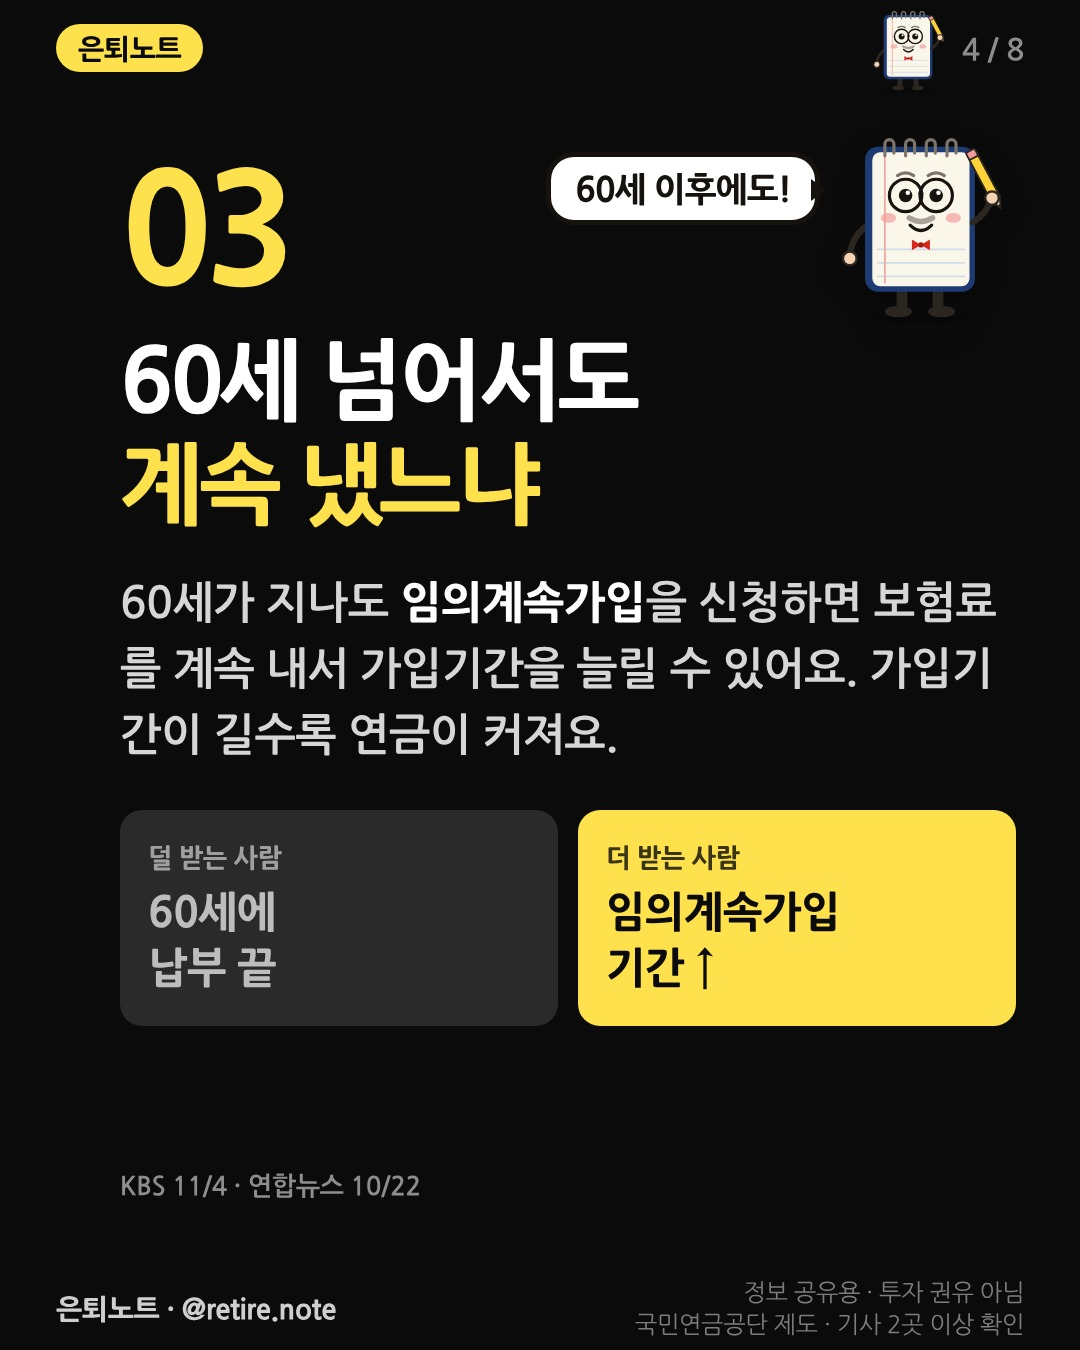
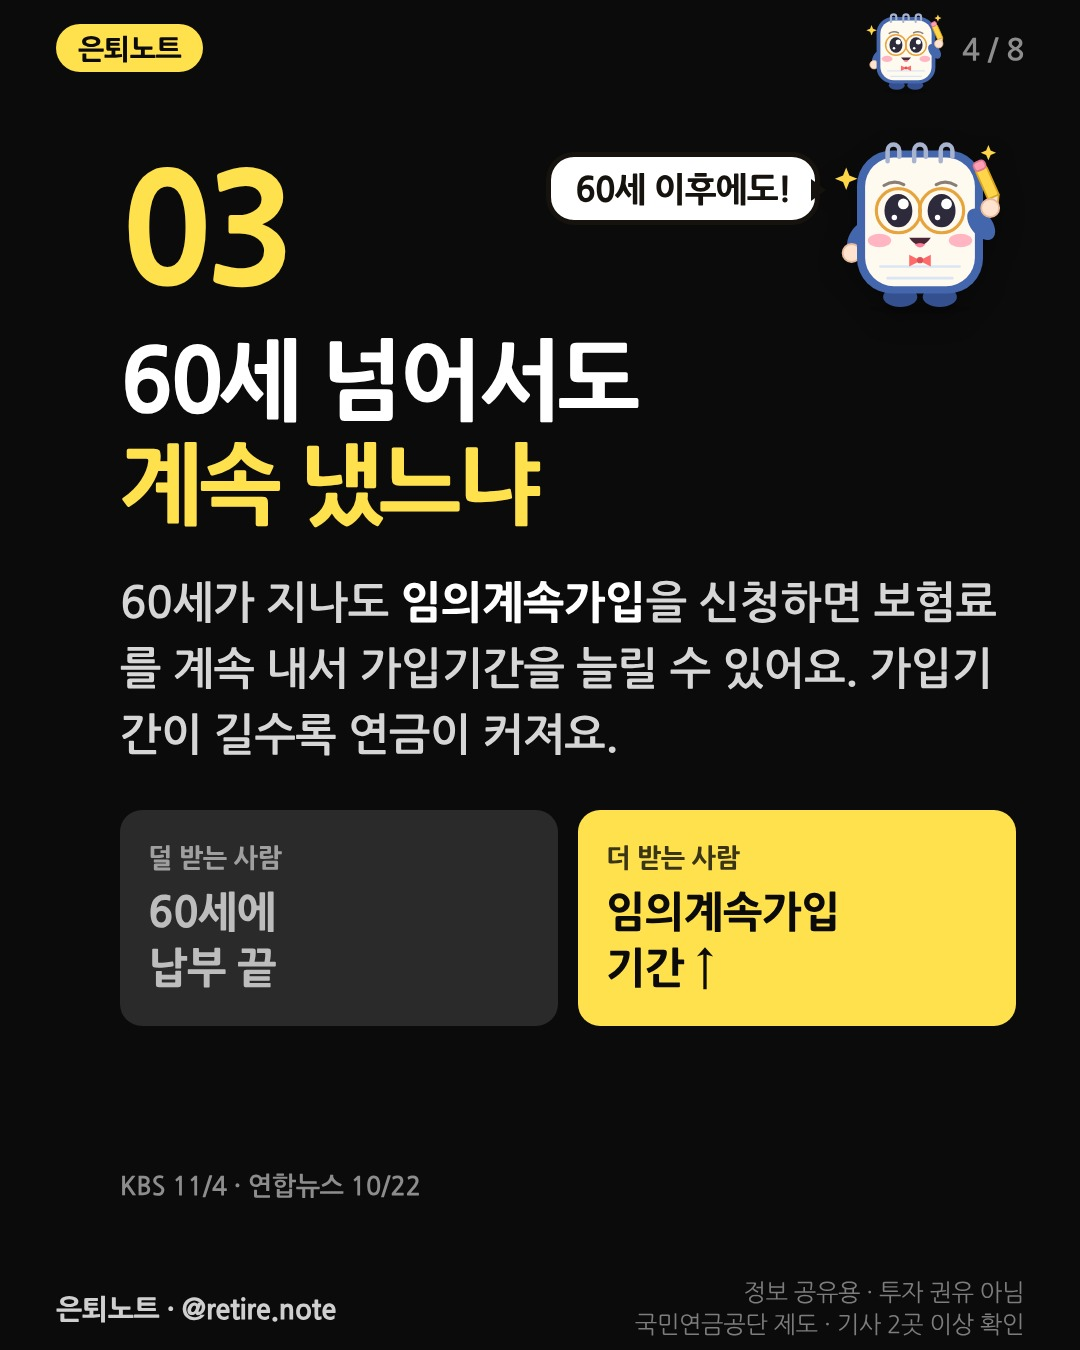
매니악 브리핑 전체 디자인 교체(주황 배경·흰 보드·검정·노랑, 마스코트 마이크 든 주황 고양이 '매니') + 노트쌤 더 귀엽게(v2) + 카드뉴스 3편 다시 렌더
Claude-Session: https://claude.ai/code/session_01BZ9kVCeSsRw6NxVGXqDDmX

Changed region(s): [[0.7639, 0.0, 0.9472, 0.2489]]

diff --git a/reel/cards.html b/reel/cards.html
@@ -6,7 +6,8 @@
   @font-face { font-family:'Sans'; src:url('fonts/nanum-800.woff2'); font-weight:800; }
   @font-face { font-family:'Pen'; src:url('fonts/NanumPenScript-Regular.ttf'); }
   :root { --ink:#16130f; --red:#d7261e; --yel:#ffe14d; --blue:#1f4fa8; --gray:#6b6258; --paper:#fbf6ea; --line:#d9e3ef; --navy:#13213a; }
-  .mb { --ink:#f4f7fb; --red:#ffb340; --yel:#ffb340; --blue:#5ec8ff; --gray:#9fb0c6; --paper:#0f1a2d; --line:#1d2b44; --navy:#070c15; }
+  .mb { --ink:#15171c; --red:#ff4d1f; --yel:#ffd60a; --blue:#1f6fff; --gray:#6e737d; --paper:#ffffff; --line:#eef0f3; --navy:#15171c; } /* 매니악 v2(11/19): 흰 카드 + 주황 띠 */
+  .mb .slide { border-top:18px solid #ff6a2b; }
   * { box-sizing:border-box; margin:0; padding:0; }
   body { background:#222; }
   .slide { width:1080px; height:1350px; position:relative; overflow:hidden; background:var(--paper); color:var(--ink); font-family:'Sans'; letter-spacing:-0.03em; }
@@ -14,19 +15,18 @@
   .rn .slide::before { content:""; position:absolute; left:92px; top:0; bottom:0; width:3px; background:#f0a8a3; opacity:.8; }
   .top { position:absolute; left:0; right:0; top:0; height:118px; display:flex; align-items:center; justify-content:space-between; padding:0 64px 0 120px; }
   .tape { background:rgba(255,225,77,.88); color:#16130f; font-family:'Pen'; font-size:46px; padding:6px 26px 2px; transform:rotate(-2deg); box-shadow:0 2px 6px rgba(0,0,0,.12); }
-  .mb .tape { font-family:'Sans'; font-weight:800; font-size:30px; border-radius:30px; padding:10px 26px; transform:none; background:var(--yel); color:#0f1a2d; }
+  .mb .tape { font-family:'Sans'; font-weight:800; font-size:30px; border-radius:30px; padding:10px 26px; transform:none; background:#ff6a2b; color:#fff; }
   .pg { font-size:30px; font-weight:700; color:var(--gray); }
   .body { position:absolute; left:120px; right:64px; top:150px; bottom:150px; }
   .t1 { font-size:86px; font-weight:800; line-height:1.12; }
   .t2 { font-size:86px; font-weight:800; line-height:1.12; color:var(--red); margin-top:6px; }
   .t2 em, .t1 em { font-style:normal; background:linear-gradient(transparent 58%, var(--yel) 58%); padding:0 6px; }
-  .mb .t2 em, .mb .t1 em { background:none; color:var(--yel); }
+  .mb .t2 em, .mb .t1 em { background:linear-gradient(transparent 58%, var(--yel) 58%); color:inherit; }
   .sub { font-size:34px; color:var(--gray); margin-top:22px; font-weight:700; }
   .h { font-size:60px; font-weight:800; line-height:1.15; }
   .h .r { color:var(--red); }
   .vs { display:flex; gap:28px; margin-top:36px; }
   .vs .card { flex:1; background:#fff; border-radius:28px; padding:34px 30px 30px; box-shadow:0 6px 18px rgba(0,0,0,.10); border-top:14px solid var(--c); }
-  .mb .vs .card { background:#16243d; }
   .vs .lab { font-size:40px; font-weight:800; }
   .vs .big { font-size:104px; font-weight:800; color:var(--c); line-height:1.05; margin:14px 0 8px; letter-spacing:-0.05em; }
   .vs .cap { font-size:36px; font-weight:700; line-height:1.3; }
@@ -34,7 +34,6 @@
   .swipe { margin-top:26px; text-align:right; font-size:40px; font-weight:800; color:var(--ink); }
   .swipe span { background:var(--yel); color:#16130f; padding:12px 34px; border-radius:40px; }
   table { width:100%; border-collapse:separate; border-spacing:0; margin-top:34px; background:#fff; border-radius:24px; overflow:hidden; box-shadow:0 6px 18px rgba(0,0,0,.10); }
-  .mb table { background:#16243d; }
   th { background:var(--navy); color:#fff; font-size:34px; font-weight:800; padding:20px 18px; text-align:left; }
   td { font-size:46px; font-weight:800; padding:19px 18px; border-top:2px solid rgba(0,0,0,.06); }
   td.dim { color:var(--gray); font-size:40px; }
@@ -42,12 +41,10 @@
   tr:nth-child(even):not(.hi) td { background:rgba(0,0,0,.025); }
   .note { font-size:30px; color:var(--gray); margin-top:22px; line-height:1.45; font-weight:700; }
   .box { margin-top:30px; background:#fff; border-radius:24px; padding:30px 34px; box-shadow:0 6px 18px rgba(0,0,0,.10); border-left:14px solid var(--red); }
-  .mb .box { background:#16243d; }
   .box .bt { font-size:40px; font-weight:800; color:var(--red); margin-bottom:12px; }
   .box p { font-size:36px; font-weight:700; line-height:1.45; }
   ol.list { list-style:none; margin-top:36px; }
   ol.list li { display:flex; gap:24px; align-items:flex-start; background:#fff; border-radius:22px; padding:26px 28px; margin-bottom:22px; box-shadow:0 4px 12px rgba(0,0,0,.08); }
-  .mb ol.list li { background:#16243d; }
   ol.list .n { flex:0 0 64px; height:64px; border-radius:50%; background:var(--navy); color:#fff; font-size:36px; font-weight:800; display:flex; align-items:center; justify-content:center; }
   ol.list .tx b { display:block; font-size:42px; font-weight:800; line-height:1.25; }
   ol.list .tx span { display:block; font-size:32px; font-weight:700; color:var(--gray); margin-top:6px; line-height:1.35; }
@@ -59,7 +56,6 @@
   .cta .big2 .r { color:var(--red); }
   .ill { position:absolute; right:0; }
   .bars { margin-top:28px; background:#fff; border-radius:28px; padding:30px 34px 20px; box-shadow:0 6px 18px rgba(0,0,0,.10); }
-  .mb .bars { background:#16243d; }
   .bars .bt { font-size:36px; font-weight:800; margin-bottom:18px; }
   .bar { display:flex; align-items:center; gap:18px; margin-bottom:12px; }
   .bar .bl { flex:0 0 190px; font-size:32px; font-weight:800; }
@@ -67,14 +63,12 @@
   .bar .bf { height:100%; border-radius:12px; background:var(--c); display:flex; align-items:center; justify-content:flex-end; padding-right:16px; color:#fff; font-size:34px; font-weight:800; }
   .tiles { display:grid; grid-template-columns:1fr 1fr; gap:22px; margin-top:30px; }
   .tile { background:#fff; border-radius:26px; padding:22px 26px 20px; box-shadow:0 6px 18px rgba(0,0,0,.10); border-top:12px solid var(--red); }
-  .mb .tile { background:#16243d; }
   .tile .lab { font-size:34px; font-weight:800; color:var(--gray); }
   .tile .big { font-size:84px; font-weight:800; color:var(--red); line-height:1.08; margin:10px 0 6px; letter-spacing:-0.05em; }
   .tile .cap { font-size:31px; font-weight:700; line-height:1.3; }
   .more { margin-top:36px; }
   .more .mt { font-size:34px; font-weight:800; color:var(--gray); margin-bottom:14px; }
   .more span { display:inline-block; background:#fff; border:3px solid var(--navy); border-radius:40px; padding:10px 24px; margin:0 12px 14px 0; font-size:32px; font-weight:800; }
-  .mb .more span { background:#16243d; }
   /* ── 굵은 글씨 꼴(style:"bold") — 위 그림 절반 + 아래 검은 바탕 큰 흰 글씨(인스타 명언·정보 계정 꼴, 11/19) ── */
   .bold .slide { background:#0b0b0b !important; background-image:none !important; color:#fff; }
   .bold .slide::before { display:none; }
@@ -130,7 +124,7 @@
 const D = window.__DATA__;
 const MB = D.brand === "mb";
 document.body.className = (MB ? "mb" : "rn") + (D.style === "bold" ? " bold" : "");
-document.body.style.setProperty("--hl", D.hl || (MB ? "#ffb340" : "#ffe14d"));
+document.body.style.setProperty("--hl", D.hl || (MB ? "#ff7a2f" : "#ffe14d"));
 const esc = (s) => String(s ?? "").replace(/&/g, "&amp;").replace(/</g, "&lt;");
 const rich = (s) => esc(s).replace(/\[(.+?)\]/g, "<em>$1</em>").replace(/\{(.+?)\}/g, '<span class="r">$1</span>').replace(/\*(.+?)\*/g, "<b>$1</b>").replace(/\n/g, "<br>");
 const N = D.slides.length;

diff --git a/reel/note.html b/reel/note.html
@@ -57,24 +57,23 @@
   #vignette { position:absolute; inset:0; pointer-events:none;
               background:radial-gradient(ellipse at 50% 45%, rgba(0,0,0,0) 55%, rgba(0,0,0,.35) 100%); }
 
-  /* ── 스킨 "brief"(매니악 브리핑): 남색 브리핑 보드, 반듯한 고딕, 호박색·하늘색 강조 ── */
-  body.skin-brief { background:#0b111c; }
-  .skin-brief #desk { background:radial-gradient(ellipse at 50% 18%, #1c2c47 0%, #0f1828 58%, #070c15 100%); }
+  /* ── 스킨 "brief"(매니악 브리핑) v2(11/19 "남색 맘에 안 들어 전체적으로 다 바꿔"): 주황 배경 + 흰 보드, 검정 고딕, 주황·노랑 강조 ── */
+  body.skin-brief { background:#ff6a2b; }
+  .skin-brief #desk { background:radial-gradient(ellipse at 50% 20%, #ff8f4d 0%, #ff6a2b 55%, #e8521a 100%); }
   .skin-brief #binding, .skin-brief .page .grain, .skin-brief .page .rules, .skin-brief .page .margin,
   .skin-brief .page .holes, .skin-brief .stain { display:none; }
-  .skin-brief .page { background:linear-gradient(180deg,#14223a 0%,#0f1a2d 100%); border-radius:30px;
-                      box-shadow:0 30px 80px rgba(0,0,0,.6), inset 0 0 0 2px rgba(255,255,255,.07); }
-  .skin-brief .page .light { background:linear-gradient(180deg, rgba(255,255,255,.06) 0%, rgba(255,255,255,0) 32%); }
+  .skin-brief .page { background:#ffffff; border-radius:34px; box-shadow:0 24px 60px rgba(120,30,0,.35); }
+  .skin-brief .page .light { background:none; }
   .skin-brief .f-bold { font-family:'Sans'; font-weight:800; letter-spacing:-1px; }
   .skin-brief .f-reg  { font-family:'Sans'; font-weight:700; }
   .skin-brief .f-pen  { font-family:'Sans'; font-weight:400; }
-  .skin-brief .c-ink { color:#f2f5fa; } .skin-brief .c-red { color:#ffb340; } .skin-brief .c-gray { color:#8fa1ba; } .skin-brief .c-blue { color:#5ec8ff; }
-  .skin-brief .tape { font-family:'Sans'; font-weight:800; font-size:40px; color:#0f1a2d; background:#ffb340; border-radius:999px;
-                      padding:12px 32px 10px; letter-spacing:1px; transform:none; mix-blend-mode:normal; clip-path:none; }
-  .skin-brief .sticky { background:#1b2c49; border-left:10px solid #5ec8ff; border-radius:14px; box-shadow:0 16px 40px rgba(0,0,0,.45); }
+  .skin-brief .c-ink { color:#15171c; } .skin-brief .c-red { color:#ff4d1f; } .skin-brief .c-gray { color:#7a7f8a; } .skin-brief .c-blue { color:#1f6fff; }
+  .skin-brief .tape { font-family:'Sans'; font-weight:800; font-size:40px; color:#ffffff; background:#15171c; border-radius:999px;
+    padding:12px 34px; transform:none; box-shadow:none; }
+  .skin-brief .sticky { background:#fff4cc; border-left:10px solid #ff4d1f; border-radius:14px; box-shadow:0 12px 30px rgba(0,0,0,.12); }
   .skin-brief .sticky::before { display:none; }
-  .skin-brief .hl { background:rgba(255,179,64,.26); mix-blend-mode:normal; }
-  .skin-brief #vignette { background:radial-gradient(ellipse at 50% 45%, rgba(0,0,0,0) 60%, rgba(0,0,0,.45) 100%); }
+  .skin-brief .hl { background:rgba(255,214,10,.55); mix-blend-mode:multiply; }
+  .skin-brief #vignette { background:none; }
 
   /* ── 고정 제목 띠(band): 표지 다음부터 화면 위에 두 줄 제목을 계속 띄움(쇼츠 '뉴스 템플릿' 패턴) ── */
   #stage { position:absolute; inset:0; transform-origin:50% 0; }
@@ -83,7 +82,7 @@
   #band::after { content:""; position:absolute; left:0; right:0; bottom:0; height:8px; background:var(--band-line, #ffe14d); }
   #band .bl { font-family:'Sans'; font-weight:800; letter-spacing:-0.03em; color:#fff; line-height:1.16; white-space:nowrap; }
   #band .bl .k { color:var(--band-k, #ffe14d); } #band .bl .r { color:#ff4a3d; }
-  .skin-brief #band { background:#070c15; }
+  .skin-brief #band { background:#15171c; --band-k:#ffd60a; --band-line:#ff6a2b; }
   .mascot { position:absolute; visibility:hidden; transform-origin:50% 100%; }
   .mascot img { width:100%; display:block; filter:drop-shadow(0 8px 10px rgba(0,0,0,.25)); }
   .mascot .mbub { position:absolute; bottom:100%; right:40%; margin-bottom:-6px; background:#fff; color:#16130f; border:5px solid #16130f; border-radius:30px;
@@ -106,7 +105,7 @@
   const W = 988, H = 1760;
   const BRIEF = D.skin === "brief";
   if (BRIEF) document.body.classList.add("skin-brief");
-  const COLORS = BRIEF ? { ink:"#f2f5fa", red:"#ffb340", gray:"#8fa1ba", blue:"#5ec8ff" }
+  const COLORS = BRIEF ? { ink:"#15171c", red:"#ff4d1f", gray:"#7a7f8a", blue:"#1f6fff" }
                        : { ink:"#22304a", red:"#c0392b", gray:"#77797d", blue:"#2c5aa0" };
 
   // ── 결정적 난수 ──
@@ -269,7 +268,7 @@
         .replace(/\[([^\]]+)\]/g, '<span class="k">$1</span>').replace(/\{([^}]+)\}/g, '<span class="r">$1</span>');
       bandEl.appendChild(d);
     });
-    if (BRIEF){ bandEl.style.setProperty("--band-k", "#ffb340"); bandEl.style.setProperty("--band-line", "#ffb340"); }
+    if (BRIEF){ bandEl.style.setProperty("--band-k", "#ffd60a"); bandEl.style.setProperty("--band-line", "#ff6a2b"); }
     if (BAND.accent) bandEl.style.setProperty("--band-k", BAND.accent);
     bandEl.style.visibility = "hidden"; bandEl.style.display = "flex";
     // 넘치면 줄 단위로 줄임

diff --git a/reel/mb/GUIDE.md b/reel/mb/GUIDE.md
@@ -22,9 +22,9 @@
 
 ## 2. 영상 형식 (25~35초, 9:16)
 
-- 렌더: `node make-note.mjs --config reel/queue/mb/issues/<날짜><a|b>.note.json` — 설정에 **`"skin": "brief"`**(남색 브리핑 보드·고딕·호박색/하늘색 강조, 연필 소리 작게). 은퇴노트 노트 설정과 같은 문법(text·circle·sticky·@시각 참조).
+- 렌더: `node make-note.mjs --config reel/queue/mb/issues/<날짜><a|b>.note.json` — 설정에 **`"skin": "brief"`**(**v2, 11/19 사용자 "부엉이도 남색도 맘에 안 들어 전체적으로 다 바꿔"**: 주황 배경 + 흰 보드, 검정 고딕, 주황(#ff4d1f)·노랑(#ffd60a) 강조, 띠는 검정 + 노랑 핵심어, 연필 소리 작게). 은퇴노트 노트 설정과 같은 문법(text·circle·sticky·@시각 참조).
 - 목소리: `ko-KR-SunHiNeural`, rate "+8%" (은퇴노트 현수 목소리와 구분).
-- 테이프: `"매니악 브리핑 #N"` (color 무시, 호박색 알약 모양).
+- 테이프: `"매니악 브리핑 #N"` (color 무시, 검정 알약 모양).
 - 흐름: ① 표지(첫 줄 = 내 경우 질문 + 숫자) → ② 배경 한 줄(뉴스) → ③ **핵심 숫자 표 3~5줄**(내 칸을 찾을 수 있게) → ④ "사실 / 해석 / 전망" 구분 한 줄씩(채널 약속) → ⑤ 확인할 것 → 팔로우 요청.
 - **표지는 '표지 v3'**(ISSUE_GUIDE 3-4, 11/17~): 위 두 줄 제목(흰 글자 + 호박색 결론 숫자) + 핵심 숫자 표 전체를 처음부터 보이게(`sheetCover({skin:"mb", …})`). '??' 가림·큰 물음표 금지. 예시 `reel/queue/mb/issues/2026-11-17b.note.json`.
 - **(11/19) 제목 공식 v4**(ISSUE_GUIDE 3-4 6번, 잘되는 채널 연구 REFERENCES 11/19): 표지 1줄은 주제 이름이 아니라 **주장·명령·반전·'내 위치'**("~하면 손해", "~말고 이때", "~인 이유", "A VS B", "40대 평균 월급은"). 2줄은 결론 숫자. 숫자로 뒷받침되는 반전만, 과장 금지.
@@ -34,12 +34,12 @@
 
 ## 2-1. 카드뉴스(캐러셀) — 11/19 사용자 "매니악브리핑도 카드뉴스 만들어"
 
-- 인스타 카드뉴스 6장(1080×1350 JPEG): `node make-cards.mjs --config queue/mb/cards/<id>.cards.json` — 설정 `"brand":"mb"`(남색 스킨), 장 종류 cover(tiles 4칸·bars·box)·table·list·cta. 예시 `queue/mb/cards/m20261120b.cards.json`.
+- 인스타 카드뉴스 6장(1080×1350 JPEG): `node make-cards.mjs --config queue/mb/cards/<id>.cards.json` — 설정 `"brand":"mb"`(흰 카드 + 위 주황 띠, 검정 표 머리, 노랑 강조), 장 종류 cover(tiles 4칸·bars·box)·table·list·cta. 예시 `queue/mb/cards/m20261120b.cards.json`.
 - 큐 항목 `kind:"carousel"`, `images:[…6장]`, `file`(첫 장), `exp:"carousel"`. 업로더가 사진 묶음으로 올린다(유튜브는 건너뜀).
 - 일정: **금요일 20:30 = '이번 주 핫이슈 숫자 정리'**(그 주 매니악 편 숫자 묶음, 첫 편 m20261120b) + 다른 날은 20:30 칸에서 하루 걸러 '한 이슈 정리' 카드뉴스를 영상 대신 시험(저장·공유·팔로우 비교). 매일 루틴은 그날 b 가 이미 있으면 a 만 만든다.
 - 숫자는 영상과 같은 규칙(2곳 이상 확인·직접 계산). 장마다 표 4~6줄, 넘침 경고(⚠)가 없을 때까지 줄인다.
-- **마스코트 '매니'**(숫자판 든 남색 부엉이, `assets/mascot-mb.svg`) — 영상 표지(sheetCover 자동)·끝 장면(`mascotEnd`)·카드뉴스(배지·말풍선)에 넣는다(ISSUE_GUIDE 3-4 8번).
-- (11/19 사용자 참고 계정) 굵은 글씨 꼴(`"style":"bold"`, 남색 대신 검정 + 호박색 강조)도 쓴다 — `hero` 의 `visual:{kind:"big", big:"+83%", cap:"…"}`(굵은 테두리 큰 숫자) + 아래 큰 글씨 제목. '경제 정보 계정(36만)'처럼 **매일 같은 이름의 시리즈**(예: "11월 ○일 아침, 꼭 알아야 할 숫자 3개")를 시험할 수 있다 — 인물 사진·합성·종목 추천은 하지 않는다.
+- **마스코트 '매니'**(마이크 든 주황 고양이 기자, `assets/mascot-mb.svg` — 11/19 부엉이에서 바꿈) — 영상 표지(sheetCover 자동)·끝 장면(`mascotEnd`)·카드뉴스(배지·말풍선)에 넣는다(ISSUE_GUIDE 3-4 8번).
+- (11/19 사용자 참고 계정) 굵은 글씨 꼴(`"style":"bold"`, 검정 + 주황 강조)도 쓴다 — `hero` 의 `visual:{kind:"big", big:"+83%", cap:"…"}`(굵은 테두리 큰 숫자) + 아래 큰 글씨 제목. '경제 정보 계정(36만)'처럼 **매일 같은 이름의 시리즈**(예: "11월 ○일 아침, 꼭 알아야 할 숫자 3개")를 시험할 수 있다 — 인물 사진·합성·종목 추천은 하지 않는다.
 
 ## 3. 게시
 

diff --git a/reel/ISSUE_GUIDE.md b/reel/ISSUE_GUIDE.md
@@ -155,7 +155,7 @@
    - '내 위치' — "대한민국 40대 평균 월급은"(59만), "월 1,000만 원 벌면 상위 몇 %"
    2줄 결론 숫자는 그대로. 내용과 다른 과장·공포 문구는 쓰지 않는다(숫자로 뒷받침되는 반전만). 물음표는 표지에서 계속 피한다.
 7. **(11/20~) 카드뉴스 시험**: 12:00 칸 하루 걸러 영상 대신 인스타 카드뉴스(6장, 1080×1350) — `node make-cards.mjs --config queue/cards/<id>.cards.json`, 큐 항목 `kind:"carousel"`, `images:[…]`, `exp:"carousel"`. 첫 편 i20261120b(국민연금 당길까 늦출까). 비교 지표: 저장·공유·도달·팔로우(영상 12:00 편과).
-8. **(11/19~) 마스코트** — 사용자 "마스코트도 만들어서 넣어". 은퇴노트 **'노트쌤'**(둥근 안경·연필 든 스프링 노트, `assets/mascot-rn.svg`), 매니악 **'매니'**(숫자판 든 남색 부엉이, `assets/mascot-mb.svg`) — 직접 그린 그림.
+8. **(11/19~) 마스코트** — 사용자 "마스코트도 만들어서 넣어". 은퇴노트 **'노트쌤'**(둥근 안경·연필 든 동글한 스프링 노트 — 11/19 "더 귀엽게" v2, `assets/mascot-rn.svg`), 매니악 **'매니'**(마이크 든 주황 고양이 기자, `assets/mascot-mb.svg` — 11/19 "부엉이·남색 맘에 안 들어"로 바꿈, 매니악 색도 주황·흰·검정으로) — 직접 그린 그림.
    - 영상: `sheetCover` 가 표지 오른쪽 아래에 자동으로 넣는다(`mascot:false` 로 뺌, `mascotSay` 로 말풍선). 끝 장면은 `mascotEnd("@cta", "팔로우!")`(note-helpers) 를 본문 마지막 페이지 items 에 넣는다 — 서명·핸들과 겹치면 x·y 조정. 노트 설정에선 `{type:"mascot", x, y, size, at, say}`.
    - 카드뉴스: 2장부터 오른쪽 위에 작은 배지(모든 장 같은 자리 — 신문사 로고 배지처럼), hero 표지에 서 있는 모습, point 장은 번호 옆에 말풍선(`say`), cta 장은 크게("저장! 팔로우!"). `"mascot":false` 로 끔.
    - 꼴 두 가지를 번갈아: **v1 노트 정리표**(cover·table·list·cta) / **v2 굵은 글씨**(`"style":"bold"` — `hero`: 위 노트 손글씨 그림 + 아래 검은 바탕 큰 글씨 3줄, `point`: 01·02… 한 장에 한 문장 + '덜 받는 사람 vs 더 받는 사람' 칸). v2 제목 꼴: "A와 B의 결정적인 차이 N가지", "평생 월 ○○만 원 ~", "~ top 5". 예시 `queue/cards/c20261122b.cards.json`.
